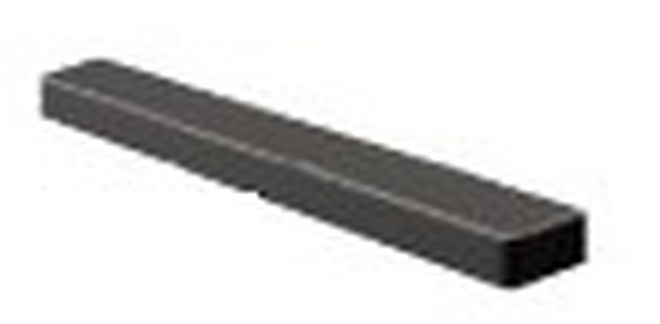
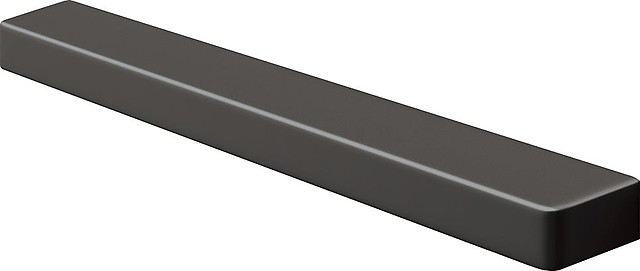
HDE取っ手

Changed region(s): [[0.0, 0.0, 1.0, 1.0]]

diff --git a/products/kitchen/v-style/index.html b/products/kitchen/v-style/index.html
@@ -234,7 +234,7 @@
       <figure><div class="ph"><picture><source srcset="../../../assets/img/products/v-style/handle-hda.webp" type="image/webp"><img src="../../../assets/img/products/v-style/handle-hda.jpg" width="640" height="271" alt="ハンドル取手 HDA" loading="lazy"></picture></div><figcaption>ハンドル取手<span class="p-prd__code">HDA</span></figcaption></figure>
       <figure><div class="ph"><picture><source srcset="../../../assets/img/products/v-style/handle-lca.webp" type="image/webp"><img src="../../../assets/img/products/v-style/handle-lca.jpg" width="640" height="235" alt="アルミライン取手 LCA" loading="lazy"></picture></div><figcaption>アルミライン取手<span class="p-prd__code">LCA</span></figcaption></figure>
       <figure><div class="ph"><picture><source srcset="../../../assets/img/products/v-style/handle-hce.webp" type="image/webp"><img src="../../../assets/img/products/v-style/handle-hce.jpg" width="640" height="250" alt="ハンドル取手 HCE" loading="lazy"></picture></div><figcaption>ハンドル取手<span class="p-prd__code">HCE</span></figcaption></figure>
-      <figure><div class="ph"><picture><source srcset="../../../assets/img/products/v-style/handle-hde.webp" type="image/webp"><img src="../../../assets/img/products/v-style/handle-hde.jpg" width="306" height="204" alt="ハンドル取手 HDE" loading="lazy"></picture></div><figcaption>ハンドル取手<span class="p-prd__code">HDE</span></figcaption></figure>
+      <figure><div class="ph"><picture><source srcset="../../../assets/img/products/v-style/handle-hde.webp" type="image/webp"><img src="../../../assets/img/products/v-style/handle-hde.jpg" width="640" height="271" alt="ハンドル取手 HDE" loading="lazy"></picture></div><figcaption>ハンドル取手<span class="p-prd__code">HDE</span></figcaption></figure>
     </div>
   </div>
 </section>

diff --git a/wp/ymkrf-setup.php b/wp/ymkrf-setup.php
@@ -14,7 +14,7 @@
 
 if ( ! defined( 'ABSPATH' ) ) exit;
 
-define( 'YMKRF_SETUP_VER', '9' );
+define( 'YMKRF_SETUP_VER', '10' );
 
 add_action( 'admin_init', function () {
 
@@ -93,9 +93,11 @@ add_action( 'admin_init', function () {
 	/* 写真の置き場所は2か所。上から順に探します。
 	   2つめはテーマの assets（作業フォルダへの入口）なので、
 	   GitHubに入れた写真がそのままメディアに取り込めます。 */
+	$theme = WP_CONTENT_DIR . '/themes/ymkrf/assets/img/products';
 	$dirs = array(
-		$dir,
-		WP_CONTENT_DIR . '/themes/ymkrf/assets/img/products/rakuera',
+		$theme . '/rakuera',
+		$theme . '/v-style',
+		$dir,                 // 最後の受け皿（wp-content/ymkrf-import）
 	);
 
 	$img = function ( $file, $alt = '' ) use ( $dirs ) {
@@ -180,10 +182,18 @@ add_action( 'admin_init', function () {
 	}
 
 	/* 元ファイルを作り直したときは、メディア側も差し替えます。
-	   （メディアは uploads/ に別のコピーを持つので、フォルダを更新しただけでは変わりません） */
-	foreach ( array_keys( $stock ) as $f ) {
-		$id = $img( $f );
-		if ( ! $id ) continue;
+	   （メディアは uploads/ に別のコピーを持つので、フォルダを更新しただけでは変わりません）
+	   対象は「このしくみで取り込んだ写真すべて」。V-styleの写真も含みます。 */
+	$imported = get_posts( array(
+		'post_type'      => 'attachment',
+		'post_status'    => 'inherit',
+		'posts_per_page' => -1,
+		'fields'         => 'ids',
+		'meta_key'       => '_ymkrf_import',
+	) );
+	foreach ( $imported as $id ) {
+		$f = get_post_meta( $id, '_ymkrf_import', true );
+		if ( ! $f ) continue;
 		$src = '';
 		foreach ( $dirs as $d ) {
 			if ( file_exists( $d . '/' . $f ) ) { $src = $d . '/' . $f; break; }
